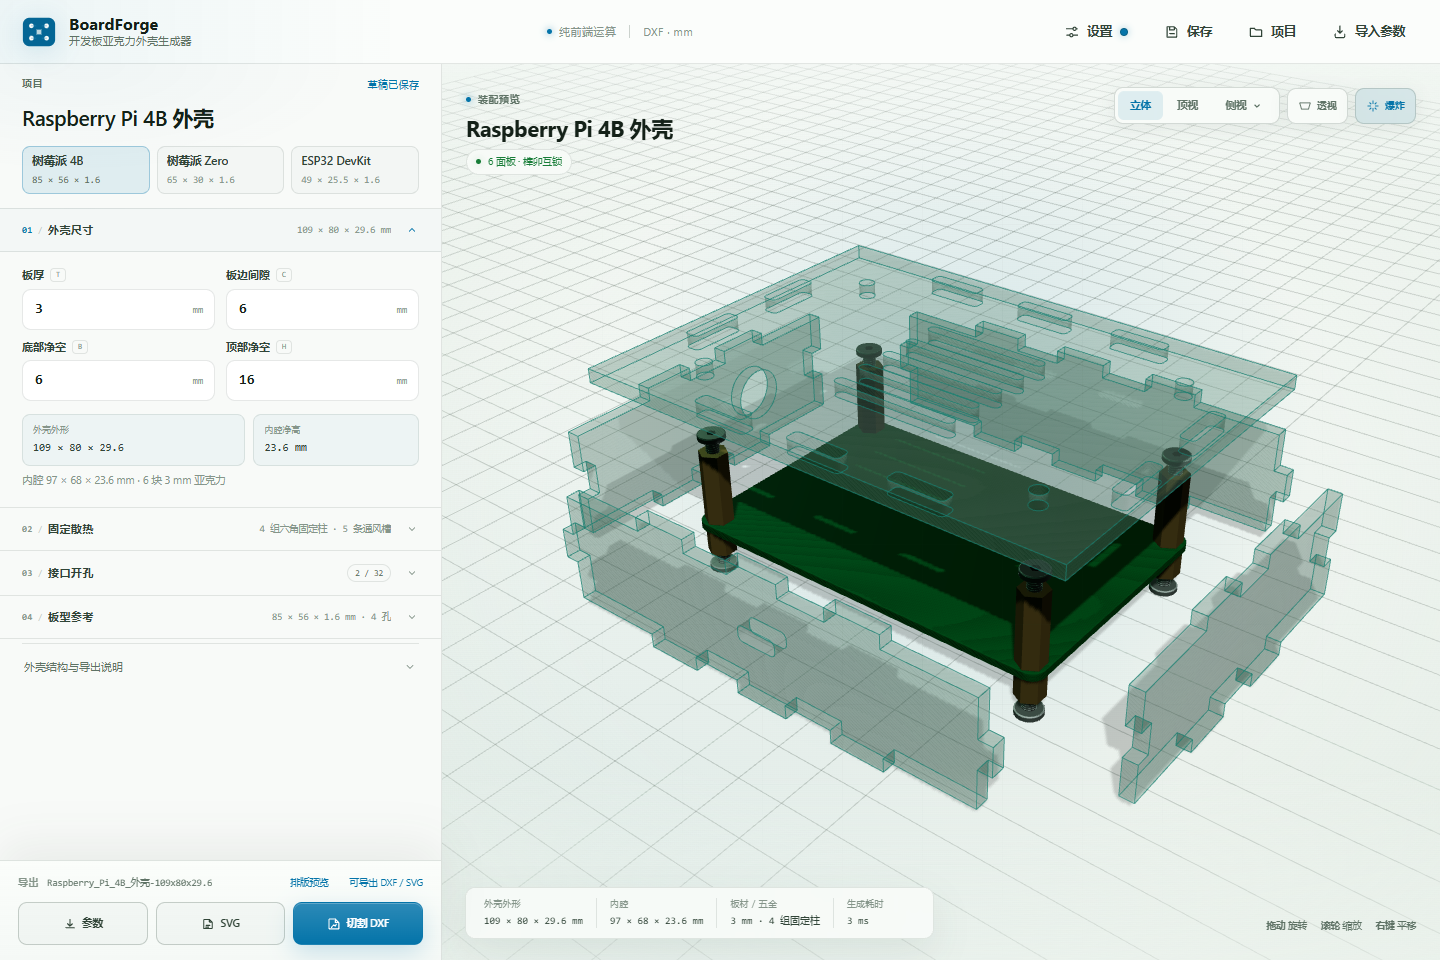
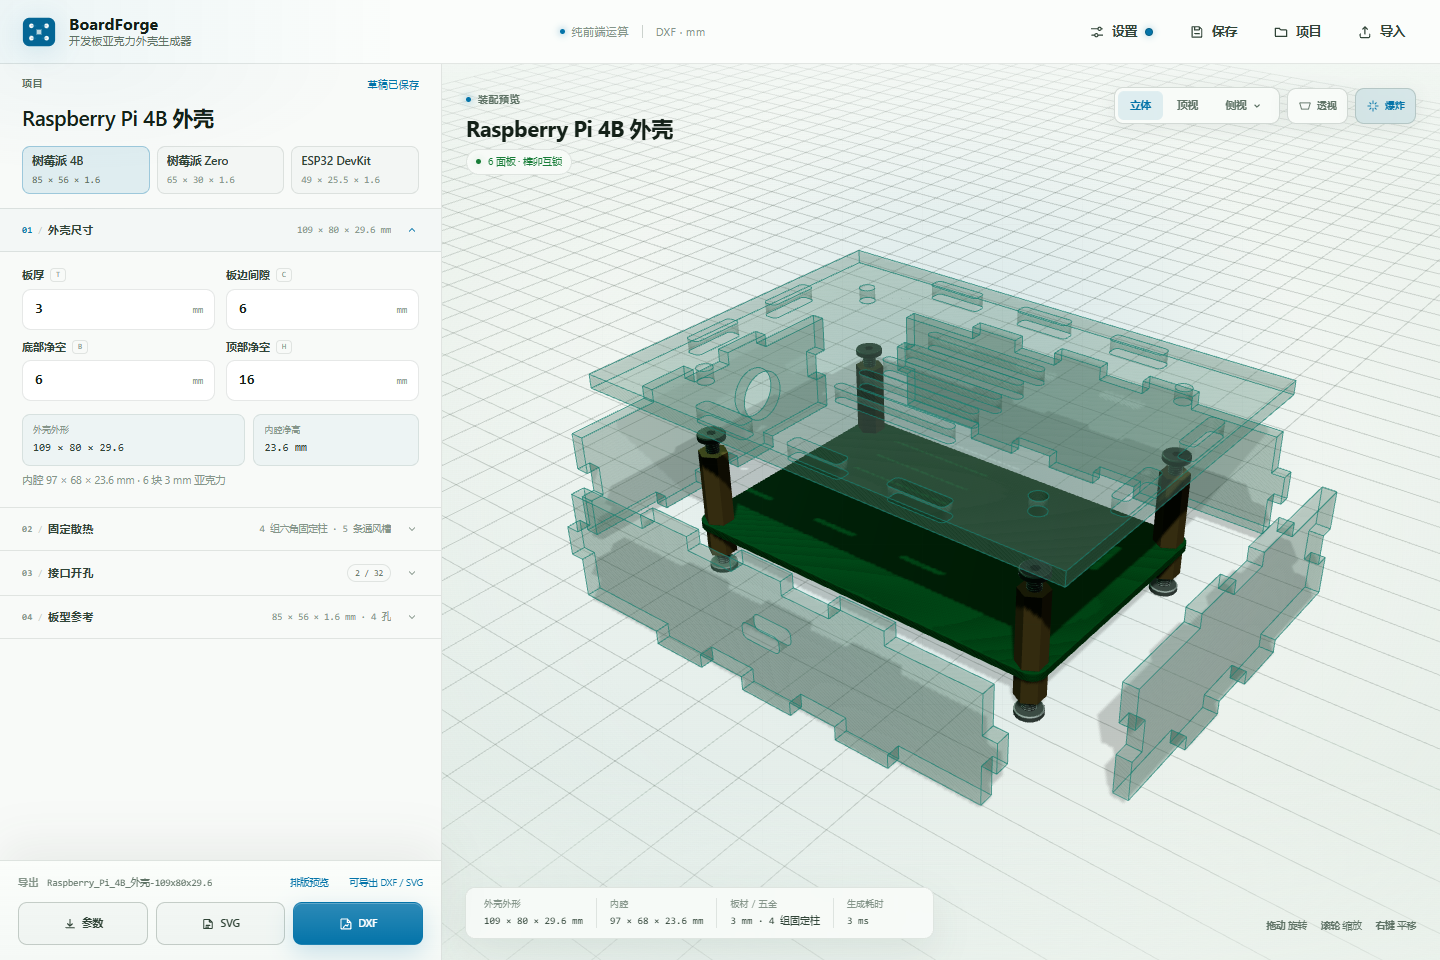
调整：精简侧栏说明、底栏按钮文案与导入图标

diff --git a/dist/index.html b/dist/index.html
@@ -902,8 +902,7 @@ html[data-mode="light"] .input-shell select {
   letter-spacing: 0.04em;
 }
 
-.color-control svg,
-.info-details svg {
+.color-control svg {
   width: 14px;
   height: 14px;
   fill: none;
@@ -1768,65 +1767,6 @@ html[data-mode="light"] .input-shell select {
 .bom-copy:hover {
   border-color: var(--line-strong);
   color: var(--text-soft);
-}
-
-.info-section {
-  padding-top: 4px;
-  padding-bottom: 9px;
-  border-bottom: 0;
-}
-
-.info-details {
-  border-top: 1px solid var(--line);
-}
-
-.info-details summary {
-  display: flex;
-  align-items: center;
-  justify-content: space-between;
-  padding: 15px 2px 13px;
-  color: var(--muted);
-  font-size: 11px;
-  cursor: pointer;
-  list-style: none;
-  user-select: none;
-}
-
-.info-details summary::-webkit-details-marker {
-  display: none;
-}
-
-.info-details summary:hover {
-  color: var(--text-soft);
-}
-
-.info-details[open] summary svg {
-  transform: rotate(180deg);
-}
-
-.info-details summary svg {
-  transition: transform 0.18s ease;
-}
-
-.info-body {
-  padding: 0 2px 12px;
-  color: var(--dim);
-  font-size: 10.5px;
-  line-height: 1.65;
-}
-
-.info-body p {
-  margin: 0 0 8px;
-}
-
-.info-body p:last-child {
-  margin-bottom: 0;
-}
-
-.info-body code {
-  color: var(--text-soft);
-  font-family: var(--mono);
-  font-size: 9.5px;
 }
 
 /* ── Export bar ─────────────────────────────────────────────────────────── */
@@ -4209,9 +4149,9 @@ html[data-mode="light"] .toast-icon {
             <svg viewBox="0 0 20 20" aria-hidden="true"><path d="M3 5.5h5l1.5 2H17v8H3z" /></svg>
             <span>项目</span>
           </button>
-          <button class="btn btn-quiet" id="importButton" type="button" aria-label="导入参数文件">
-            <svg viewBox="0 0 20 20" aria-hidden="true"><path d="M10 2.5v9m0 0 3-3m-3 3-3-3M4 12.5v3A1.5 1.5 0 0 0 5.5 17h9a1.5 1.5 0 0 0 1.5-1.5v-3" /></svg>
-            <span>导入参数</span>
+          <button class="btn btn-quiet" id="importButton" type="button" title="导入参数文件" aria-label="导入参数文件">
+            <svg viewBox="0 0 20 20" aria-hidden="true"><path d="M10 12.5v-9m0 0-3 3m3-3 3 3M4 12.5v3A1.5 1.5 0 0 0 5.5 17h9a1.5 1.5 0 0 0 1.5-1.5v-3" /></svg>
+            <span>导入</span>
           </button>
         </div>
       </header>
@@ -4477,21 +4417,6 @@ html[data-mode="light"] .toast-icon {
                 </button>
               </div>
             </details>
-
-            <section class="panel-section info-section">
-              <details class="info-details">
-                <summary>
-                  <span>外壳结构与导出说明</span>
-                  <svg viewBox="0 0 20 20" aria-hidden="true"><path d="m6 8 4 4 4-4" /></svg>
-                </summary>
-                <div class="info-body">
-                  <p>六块亚克力板通过榫舌/榫槽互锁。开发板安装孔位上下各有一段固定柱，把顶板、开发板和底板串成同一组固定结构。</p>
-                  <p>开孔坐标以侧板中心为原点，U 为水平方向，V 为垂直方向。定位时建议使用正交投影和对应侧视，避免透视变形。侧板开孔超出可加工区域时会自动跳过并提示。</p>
-                  <p>DXF/SVG 为毫米单位激光切割路径，未包含激光补偿。</p>
-                  <p>板子颜色只影响 3D 参考模型，不进入切割文件。</p>
-                </div>
-              </details>
-            </section>
           </div>
 
           <footer class="export-bar">
@@ -4512,7 +4437,7 @@ html[data-mode="light"] .toast-icon {
               </button>
               <button class="btn btn-primary" id="exportDxfButton" type="button" title="导出激光切割用 DXF，含 CUT 切割层与 ANNOTATION 标注层">
                 <svg viewBox="0 0 20 20" aria-hidden="true"><path d="M3 3h9l5 5v9H3zM12 3v5h5" /><path d="m6.5 15 3-4 2 2 2-3" /></svg>
-                <span>切割 DXF</span>
+                <span>DXF</span>
               </button>
             </div>
           </footer>

diff --git a/index.html b/index.html
@@ -75,9 +75,9 @@
             <svg viewBox="0 0 20 20" aria-hidden="true"><path d="M3 5.5h5l1.5 2H17v8H3z" /></svg>
             <span>项目</span>
           </button>
-          <button class="btn btn-quiet" id="importButton" type="button" aria-label="导入参数文件">
-            <svg viewBox="0 0 20 20" aria-hidden="true"><path d="M10 2.5v9m0 0 3-3m-3 3-3-3M4 12.5v3A1.5 1.5 0 0 0 5.5 17h9a1.5 1.5 0 0 0 1.5-1.5v-3" /></svg>
-            <span>导入参数</span>
+          <button class="btn btn-quiet" id="importButton" type="button" title="导入参数文件" aria-label="导入参数文件">
+            <svg viewBox="0 0 20 20" aria-hidden="true"><path d="M10 12.5v-9m0 0-3 3m3-3 3 3M4 12.5v3A1.5 1.5 0 0 0 5.5 17h9a1.5 1.5 0 0 0 1.5-1.5v-3" /></svg>
+            <span>导入</span>
           </button>
         </div>
       </header>
@@ -343,21 +343,6 @@
                 </button>
               </div>
             </details>
-
-            <section class="panel-section info-section">
-              <details class="info-details">
-                <summary>
-                  <span>外壳结构与导出说明</span>
-                  <svg viewBox="0 0 20 20" aria-hidden="true"><path d="m6 8 4 4 4-4" /></svg>
-                </summary>
-                <div class="info-body">
-                  <p>六块亚克力板通过榫舌/榫槽互锁。开发板安装孔位上下各有一段固定柱，把顶板、开发板和底板串成同一组固定结构。</p>
-                  <p>开孔坐标以侧板中心为原点，U 为水平方向，V 为垂直方向。定位时建议使用正交投影和对应侧视，避免透视变形。侧板开孔超出可加工区域时会自动跳过并提示。</p>
-                  <p>DXF/SVG 为毫米单位激光切割路径，未包含激光补偿。</p>
-                  <p>板子颜色只影响 3D 参考模型，不进入切割文件。</p>
-                </div>
-              </details>
-            </section>
           </div>
 
           <footer class="export-bar">
@@ -378,7 +363,7 @@
               </button>
               <button class="btn btn-primary" id="exportDxfButton" type="button" title="导出激光切割用 DXF，含 CUT 切割层与 ANNOTATION 标注层">
                 <svg viewBox="0 0 20 20" aria-hidden="true"><path d="M3 3h9l5 5v9H3zM12 3v5h5" /><path d="m6.5 15 3-4 2 2 2-3" /></svg>
-                <span>切割 DXF</span>
+                <span>DXF</span>
               </button>
             </div>
           </footer>

diff --git a/styles.css b/styles.css
@@ -879,8 +879,7 @@ html[data-mode="light"] .input-shell select {
   letter-spacing: 0.04em;
 }
 
-.color-control svg,
-.info-details svg {
+.color-control svg {
   width: 14px;
   height: 14px;
   fill: none;
@@ -1745,65 +1744,6 @@ html[data-mode="light"] .input-shell select {
 .bom-copy:hover {
   border-color: var(--line-strong);
   color: var(--text-soft);
-}
-
-.info-section {
-  padding-top: 4px;
-  padding-bottom: 9px;
-  border-bottom: 0;
-}
-
-.info-details {
-  border-top: 1px solid var(--line);
-}
-
-.info-details summary {
-  display: flex;
-  align-items: center;
-  justify-content: space-between;
-  padding: 15px 2px 13px;
-  color: var(--muted);
-  font-size: 11px;
-  cursor: pointer;
-  list-style: none;
-  user-select: none;
-}
-
-.info-details summary::-webkit-details-marker {
-  display: none;
-}
-
-.info-details summary:hover {
-  color: var(--text-soft);
-}
-
-.info-details[open] summary svg {
-  transform: rotate(180deg);
-}
-
-.info-details summary svg {
-  transition: transform 0.18s ease;
-}
-
-.info-body {
-  padding: 0 2px 12px;
-  color: var(--dim);
-  font-size: 10.5px;
-  line-height: 1.65;
-}
-
-.info-body p {
-  margin: 0 0 8px;
-}
-
-.info-body p:last-child {
-  margin-bottom: 0;
-}
-
-.info-body code {
-  color: var(--text-soft);
-  font-family: var(--mono);
-  font-size: 9.5px;
 }
 
 /* ── Export bar ─────────────────────────────────────────────────────────── */

diff --git a/README.md b/README.md
@@ -234,7 +234,7 @@ DXF 不包含激光补偿；请在激光软件中按材料测试结果设置 ker
 
 ## 构建与性能
 
-- `dist/index.html` 约 **918 KB 原始 / 236 KB gzip**；
+- `dist/index.html` 约 **916 KB 原始 / 236 KB gzip**；
 - 开发板参考几何按板尺寸/孔位缓存，只修改外壳参数时不会重复执行 CSG；
 - 默认 85 × 56 mm 外壳构建约 70–110 ms；
 - 生产构建使用 esbuild tree-shake 和压缩；
